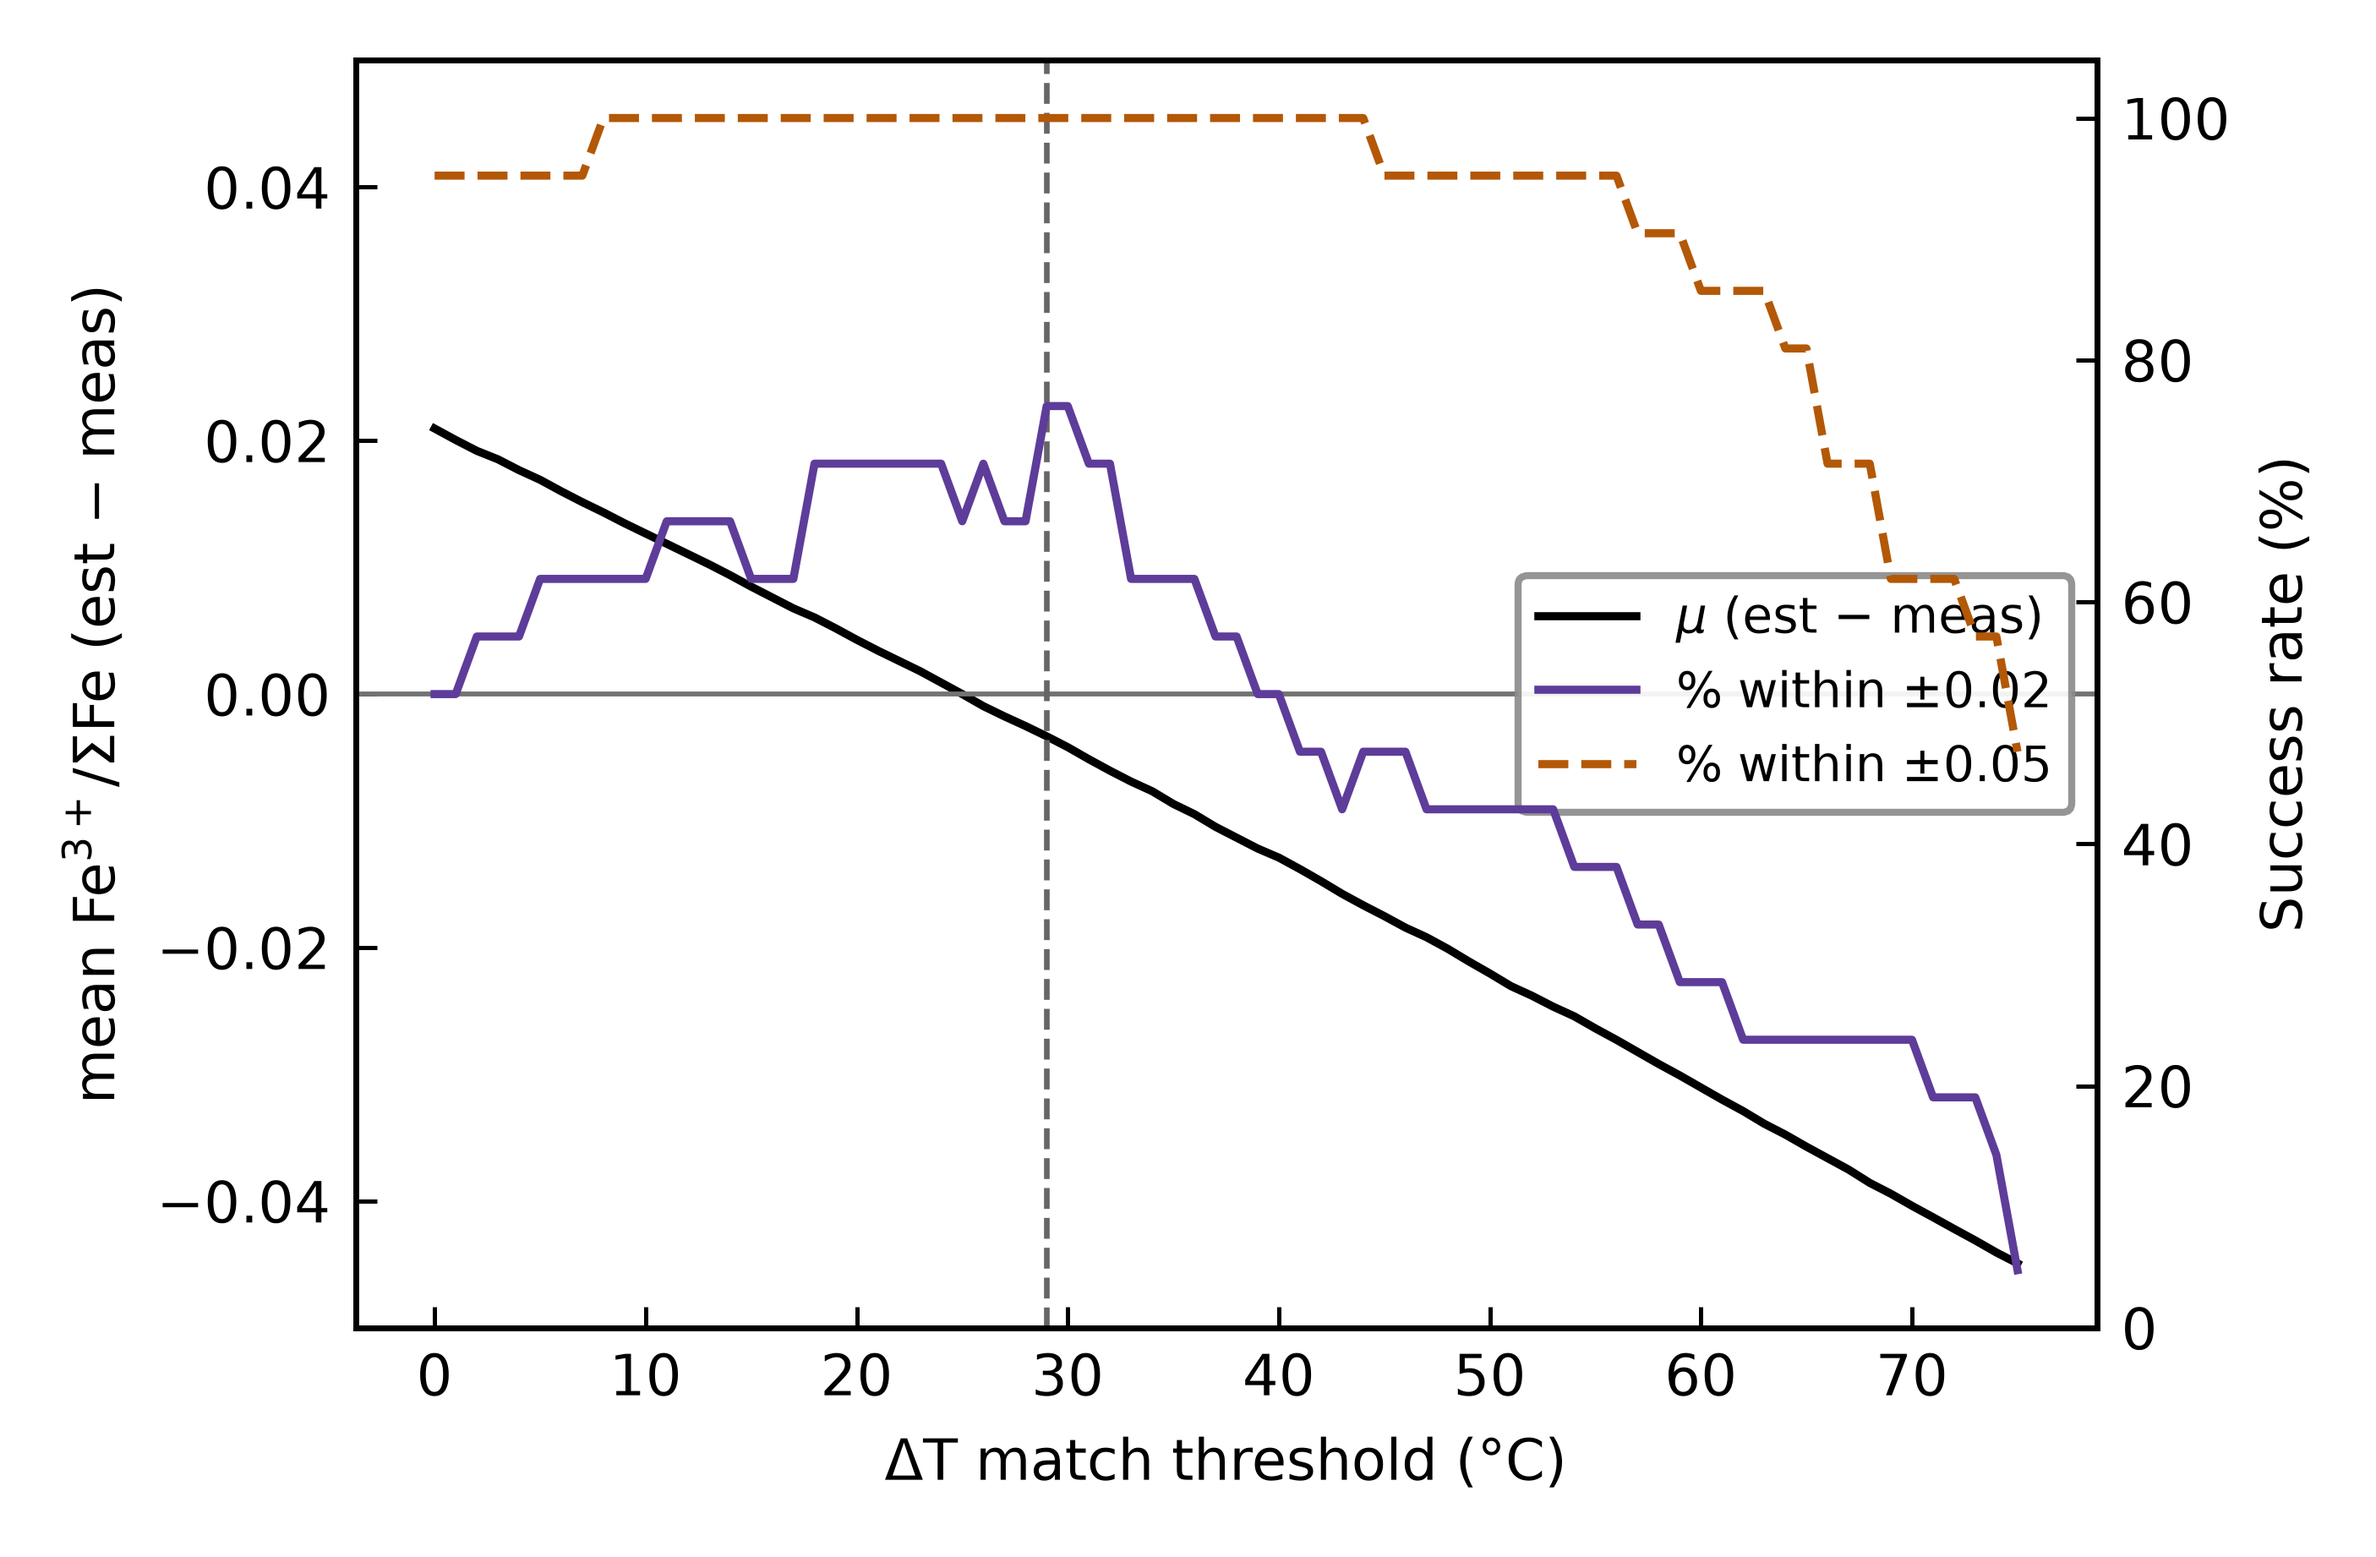
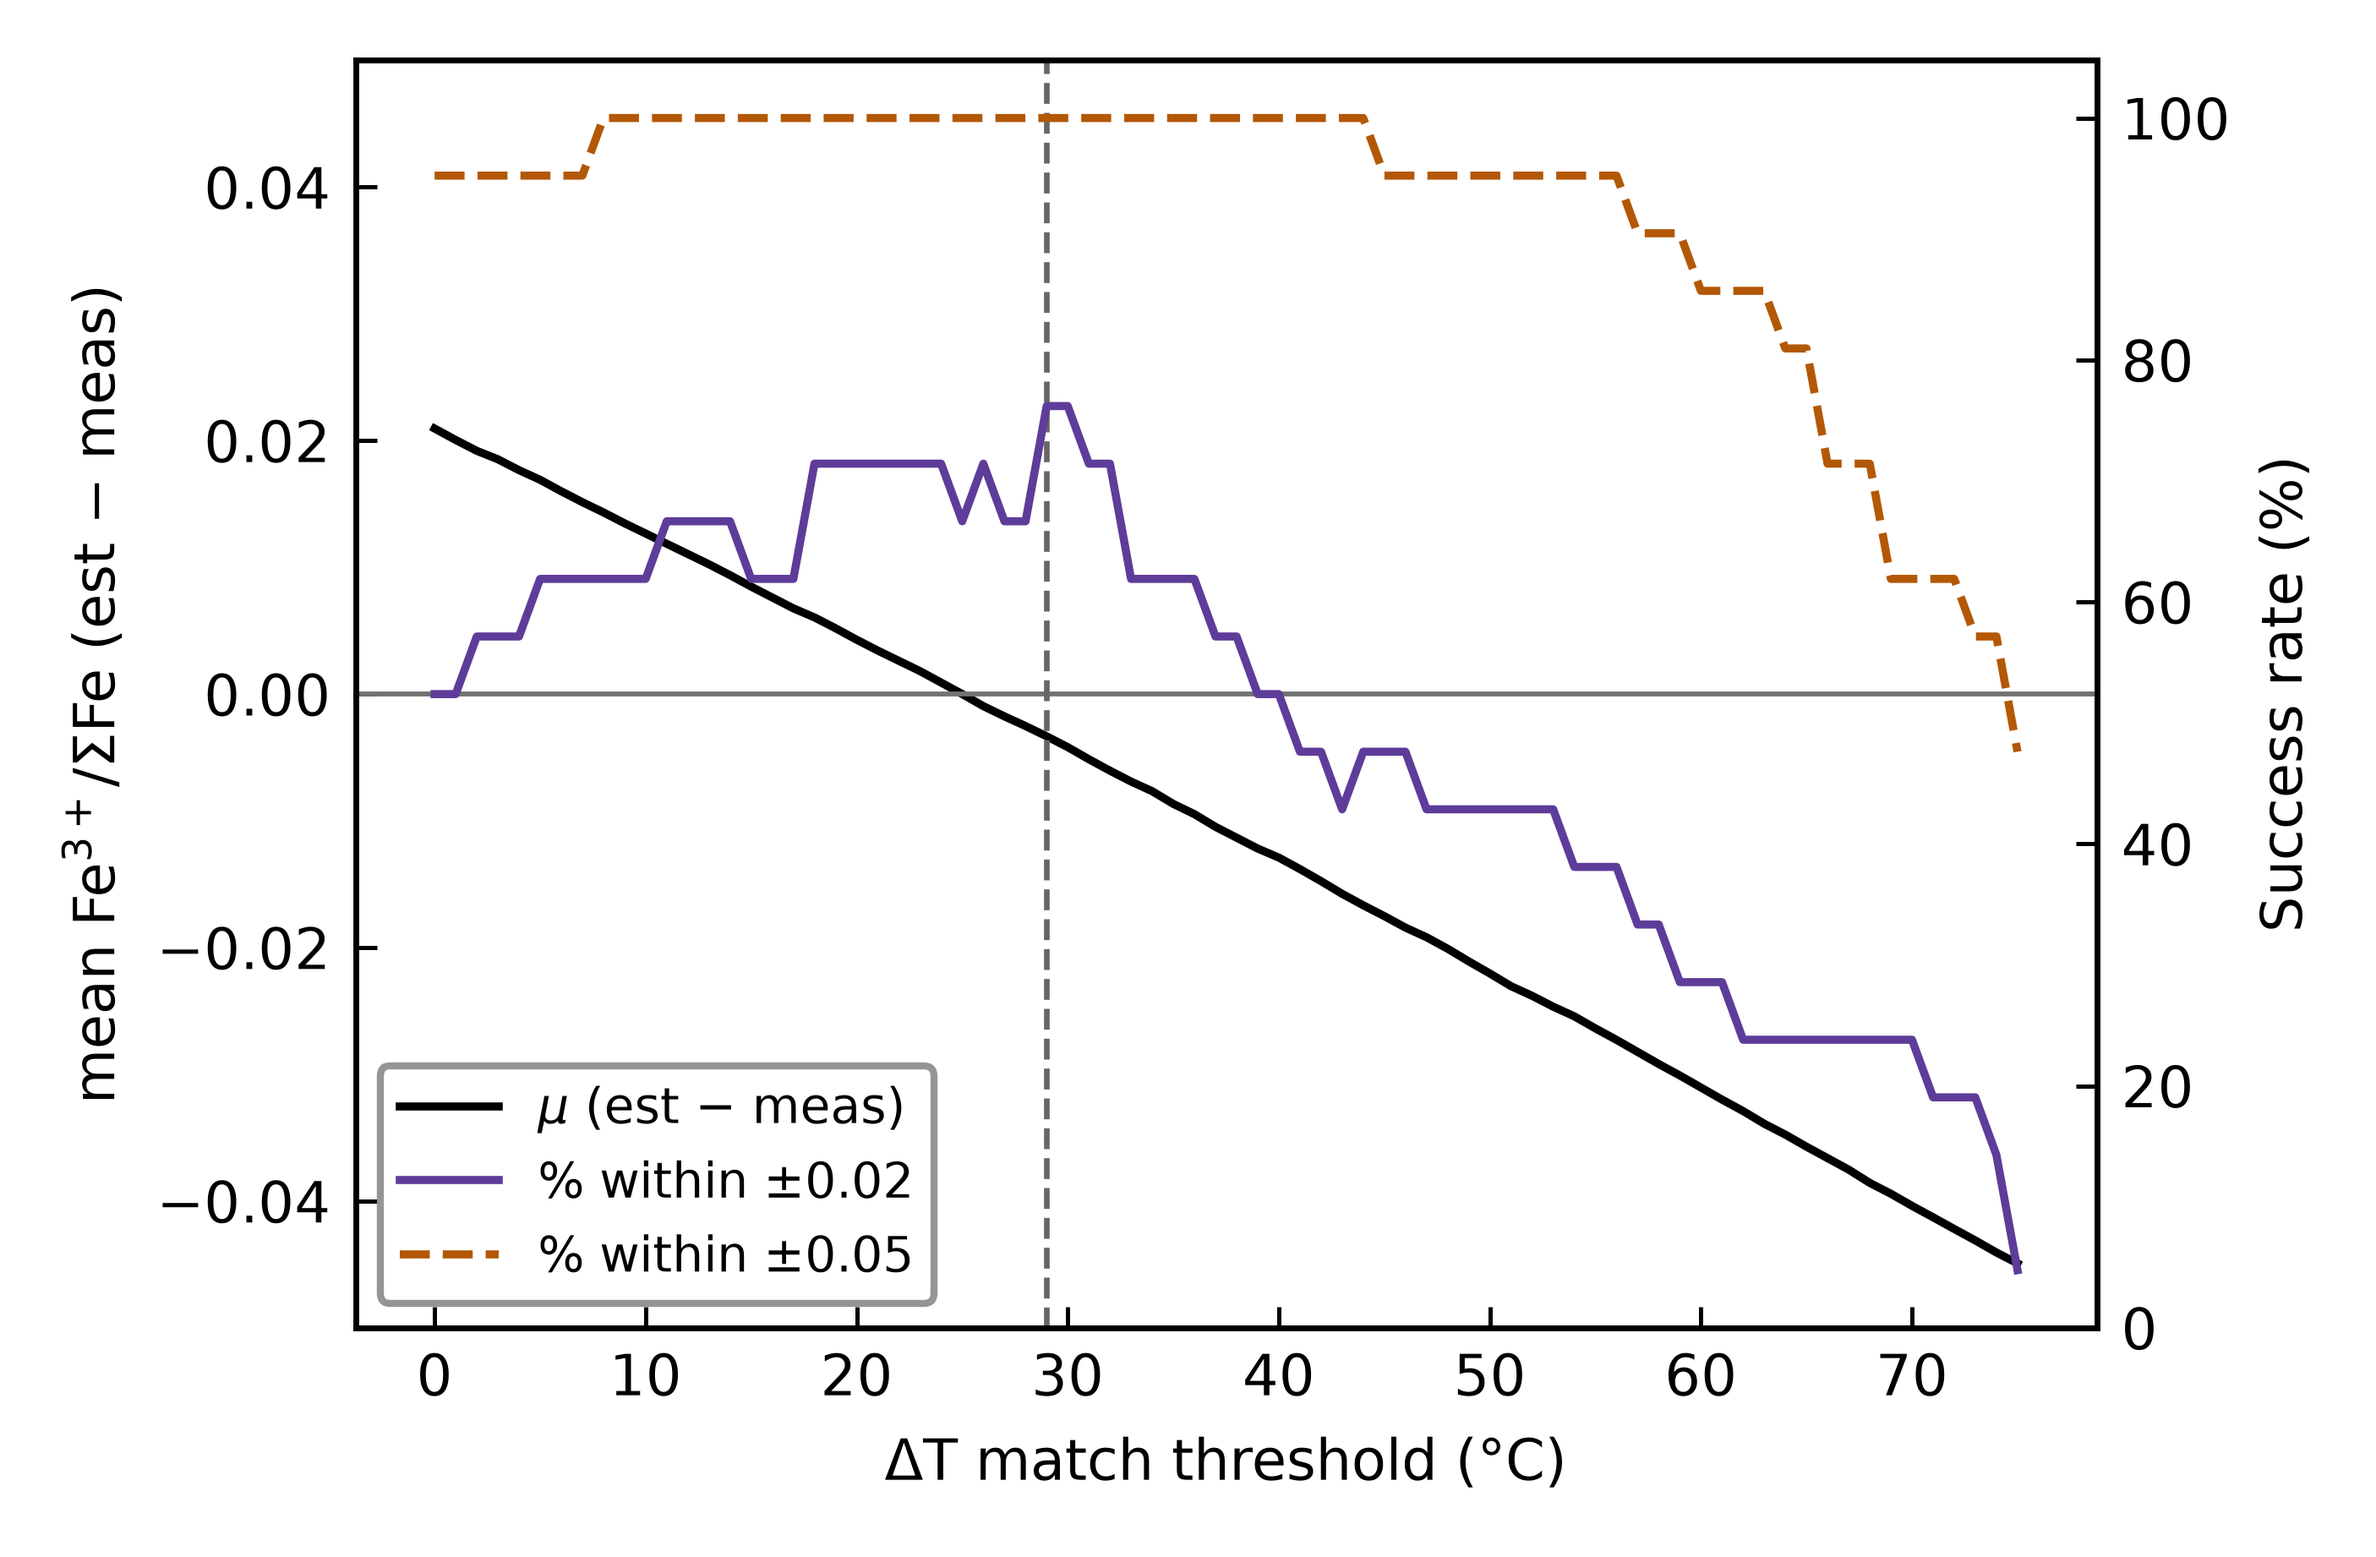
Fig. 6 legend to lower left; document red-group definition
- Fig. 6 legend drawn on the top axes at loc='lower left', clear of the
  mean, +/-0.02 and +/-0.05 curves; figure regenerated.
- calibration.py: the red group is the fixed ID list (T > 1250 C,
  estimated > measured by > 0.05); 21-6 stays in the regression set.

Pipeline, fit_calibration.py and make_figures.py re-run: params.py,
data/derived and all other figures unchanged.

Changed region(s): [[0.1547, 0.6808, 0.4023, 0.8664], [0.619, 0.4332, 0.8666, 0.5261], [0.619, 0.3404, 0.8666, 0.4023]]

diff --git a/calculations/pt_fo2/calibration.py b/calculations/pt_fo2/calibration.py
@@ -11,7 +11,10 @@ Workflow (``python scripts/fit_calibration.py`` runs all of it):
 2. Uncorrected estimates at ΔT = ``emp_fit_dt_c`` (25 °C; Fig. 5b).
 3. Error groups at that ΔT (Fig. 5b):
      blue  measured − estimated > ``emp_blue_threshold`` (0.05)
-     red   sample IDs in ``emp_red_ids`` (estimated > measured by > 0.05)
+     red   sample IDs in ``emp_red_ids``: the samples at T > 1250 °C with
+           estimated > measured by > 0.05 (21-6, +0.054 at 1136 °C, meets
+           the 0.05 criterion but lies on the high-T trend and is kept in
+           the regression set)
 4. Regression samples = calibration set minus blue and red, with
    T_TA98 ≥ ``t_emp_min_c`` (1130 °C).  These are the samples inside the
    dashed envelope of Fig. 5b.

diff --git a/scripts/make_figures.py b/scripts/make_figures.py
@@ -1090,8 +1090,10 @@ def fig06_dt_sweep(df):
     ax2.set_ylabel("Success rate (%)")
     h1, l1 = ax1.get_legend_handles_labels()
     h2, l2 = ax2.get_legend_handles_labels()
-    ax1.legend(h1 + h2, l1 + l2, frameon=True, facecolor="white", edgecolor="0.55",
-               framealpha=0.92, fontsize=7, loc="center right")
+    # Drawn on ax2 (the top axes) so no curve is drawn over it; lower left
+    # is clear of all three curves.
+    ax2.legend(h1 + h2, l1 + l2, frameon=True, facecolor="white", edgecolor="0.55",
+               framealpha=0.92, fontsize=7, loc="lower left")
     ax1.tick_params(direction="in")
     ax2.tick_params(direction="in")
     _save(fig, "Fig06_dt_match_calibration")
